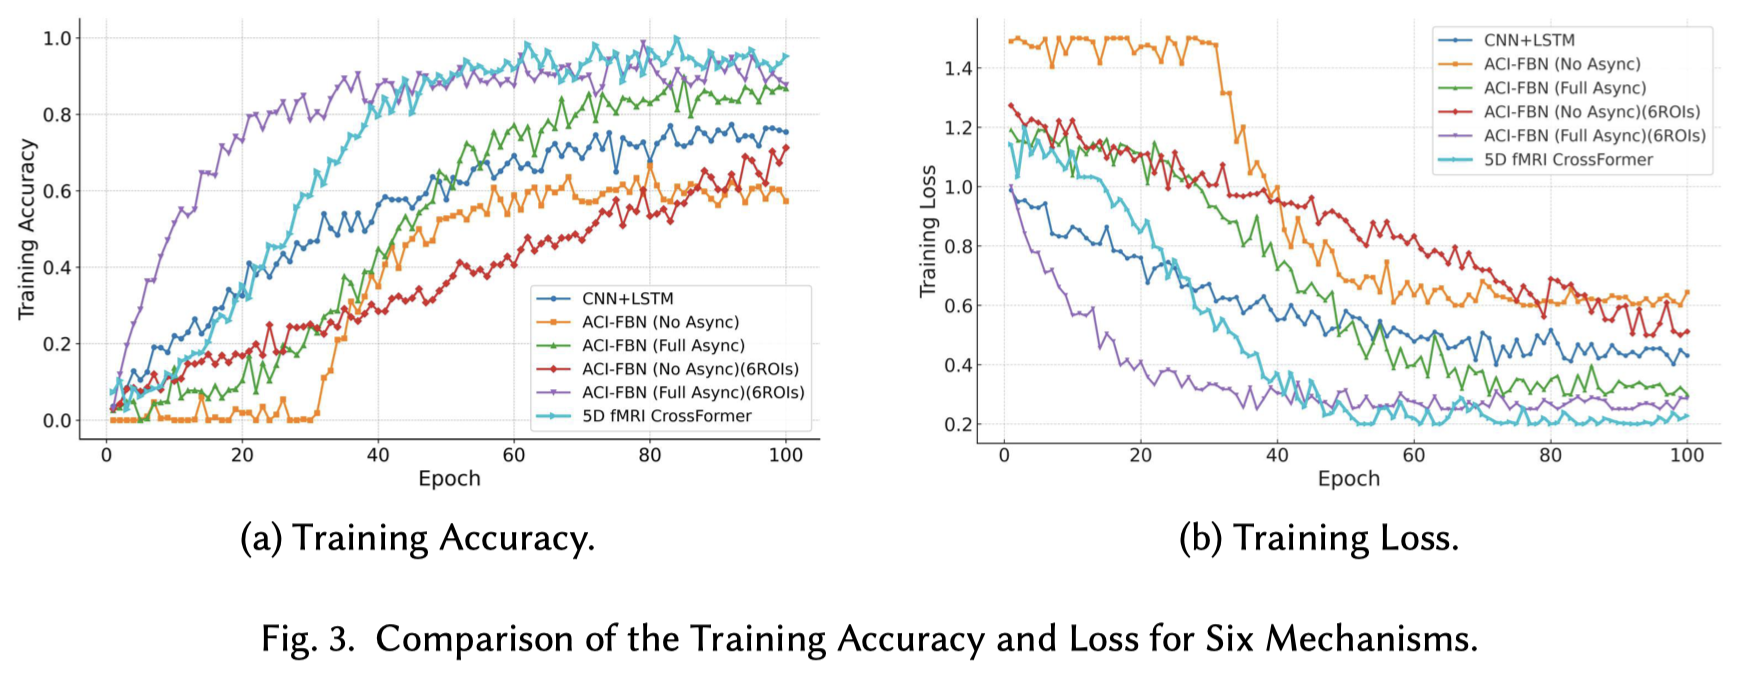
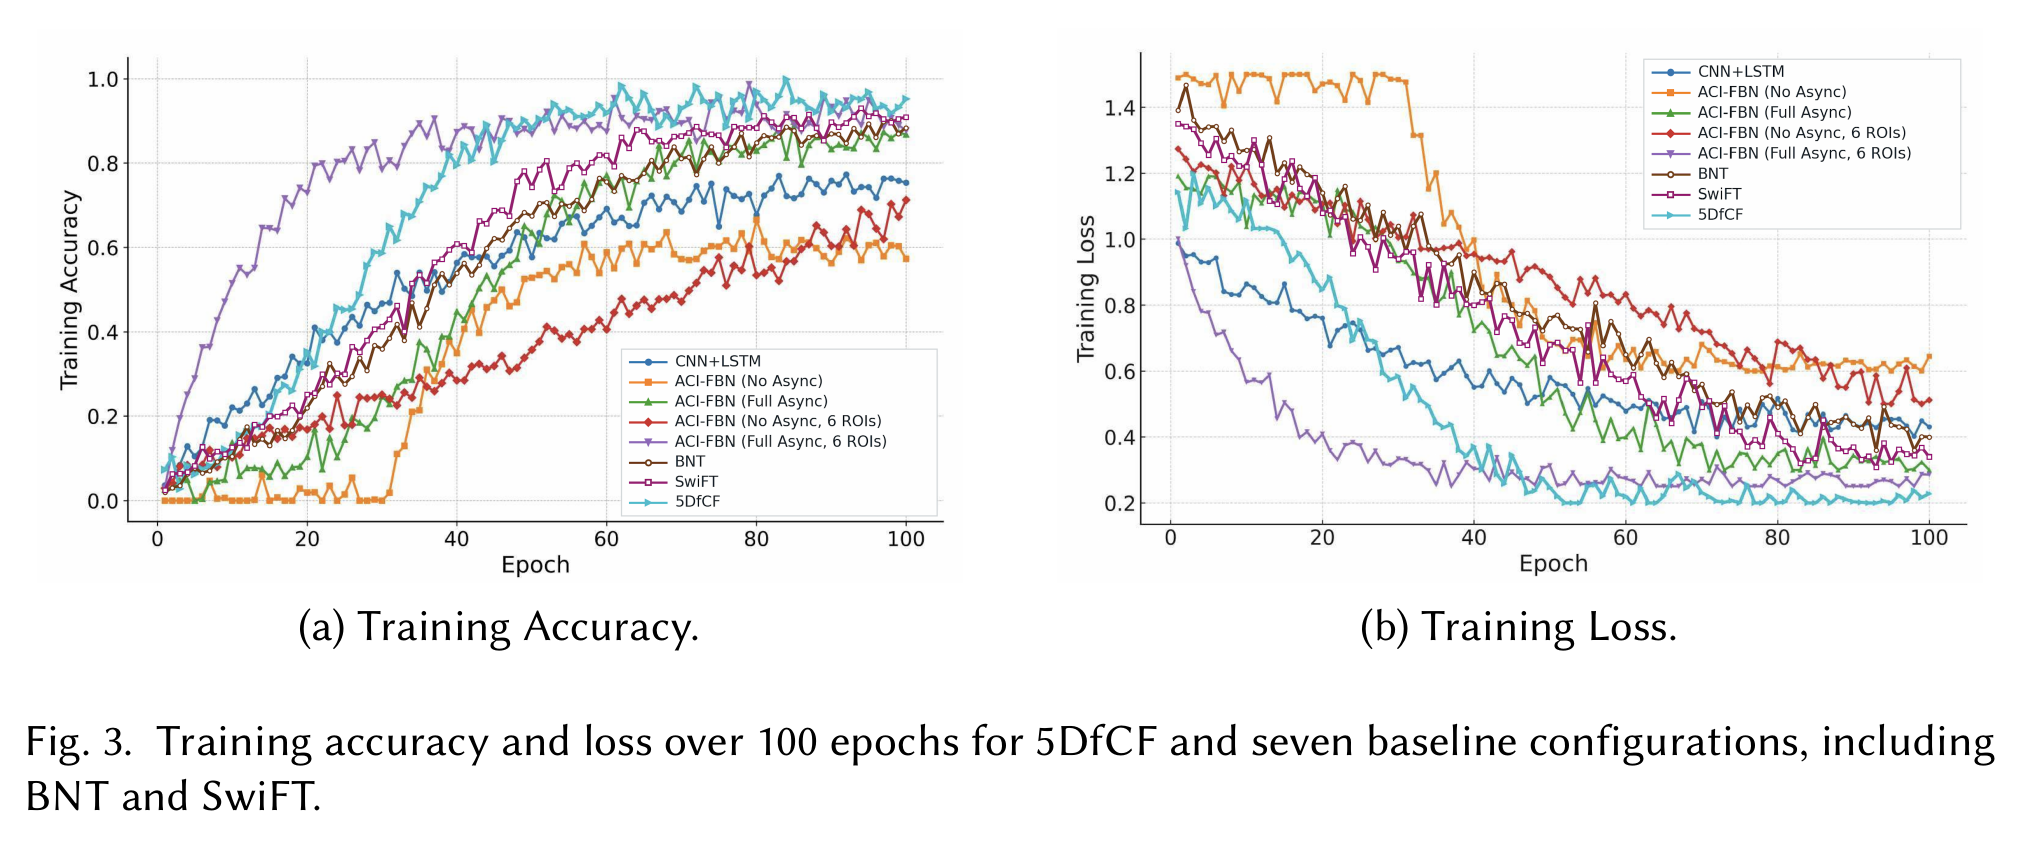
Update README benchmark results and figures

diff --git a/README.md b/README.md
@@ -8,10 +8,10 @@ Traditional neuroimaging approaches often treat fMRI volumes as independent time
 
 - Embeds multi-scale spatial patches across both intra-session and inter-session dimensions.
 - Applies dedicated 4D and 5D attention mechanisms to capture both local and global spatiotemporal dependencies.
-- Seamlessly integrates period-aware positional embeddings to preserve the order of semiannual scans.
-- Offers two variants (Base and Tiny) to balance performance and computational cost.
+- Uses period-aware positional embeddings to preserve visit order.
+- Offers Base and Tiny backbones, with a LoRA adaptation evaluated for Tiny.
 
-In experiments on longitudinal fMRI data from the Alzheimer’s Disease Neuroimaging Initiative (ADNI), the full model achieves **94.3% accuracy** and **94.1% AUC**, outperforming state-of-the-art baselines by 3–10 points in key performance metrics.
+In the longitudinal Alzheimer’s Disease Neuroimaging Initiative (ADNI) benchmark, 5DfCF Base achieved **94.4 ± 0.3% accuracy** and **94.2 ± 0.4% ROC-AUC** across three runs (mean ± standard deviation).
 
 ---
 
@@ -20,9 +20,7 @@ In experiments on longitudinal fMRI data from the Alzheimer’s Disease Neuroima
 - **5D Cross-Scale Embedding Layer (5D-CEL):** Parallel 3D convolutions with multiple kernel sizes embed each fMRI volume into a unified token representation (see Fig. 2).
 - **4D CrossFormer Block:** Dual‐path self-attention (4D-SDA for local windows and 4D-LDA for long-range dependencies) combined with absolute positional embeddings ensures rich intra-session feature extraction.
 - **Period CrossFormer Block (PCB):** 5D short-distance attention (5D-SDA) fuses period-specific outputs from the 4D blocks, enhanced by period positional embeddings to capture inter-session evolution.
-- **Variants:**
-    - **Base:** Higher token dimensions and deeper layers for maximum accuracy.
-    - **Tiny:** Reduced depth and channel sizes for 20% fewer parameters and 23% faster training, while still achieving 90.8% accuracy.
+- **Base** uses wider token embeddings and deeper layers. **Tiny** uses a narrower, shallower backbone to reduce training and inference costs.
 
 ---
 
@@ -49,45 +47,45 @@ Step-by-step pipeline of the 5D fMRI CrossFormer:
 
 ---
 
-### Fig. 3. Performance Comparison (Table 3)
-![Fig. 3: Performance Comparison](readme_files/fig_3.png)  
-**Description:**  
-Comparison of methods on the ADNI dataset:
-- **Accuracy & AUC:** Our 5D CrossFormer reaches **94.3%** accuracy and **94.1** AUC, outperforming CNN+LSTM (79.96%/78.4) and all ACI-FBN variants.
-- **Precision, Recall, F1-Score:** Achieves **93.6%** precision, **92.1%** recall, and **93.4%** F1-score—demonstrating balanced class performance.
-- **Efficiency:** Training time of **15.1 h** and **19.52 M** parameters remain competitive versus heavier baselines.
+### Fig. 3. ADNI Benchmark (Paper Table 4)
+
+![ADNI benchmark across three runs, including BNT and SwiFT](readme_files/fig_3.png)
+
+5DfCF Base had the highest mean on all five reported classification metrics, including **93.9 ± 0.5% precision**, **92.4 ± 1.0% recall**, and **93.2 ± 0.4% F1**. Its mean accuracy was **2.9 percentage points** higher than SwiFT's, and its mean ROC-AUC was **2.2 points** higher than that of six-ROI Full Asynch ACI-FBN. BNT achieved 89.4 ± 1.1% accuracy and 90.2 ± 1.2% ROC-AUC.
 
 ---
 
-### Fig. 4. Training Accuracy & Loss (Fig. 3)
-![Fig. 4: Training Accuracy & Loss](readme_files/fig_4.png)  
-**Description:**
-- **(a) Training Accuracy:** The CrossFormer (cyan) converges rapidly—surpassing other methods by epoch 40—and plateaus near **0.95**.
-- **(b) Training Loss:** Exhibits a steep early decline and stabilizes around **0.2**, indicating effective feature learning and regularization.
+### Fig. 4. Training Accuracy and Loss (Paper Fig. 3)
+
+The plots cover 100 epochs and include BNT and SwiFT.
+
+![Training accuracy and loss over 100 epochs](readme_files/fig_4.png)
+
+- **(a) Training accuracy.** The six-ROI Full Asynch ACI-FBN curve rises earlier. The 5DfCF curve reaches about 90% around epoch 50 and stays near 95% toward the end. BNT and SwiFT finish at 88.4% and 90.9%, respectively.
+- **(b) Training loss.** The 5DfCF curve ends near 0.23, compared with 0.40 for BNT and 0.34 for SwiFT. Fig. 3 reports classification results on held-out participants.
 
 ---
 
-### Fig. 5. Calibration & ROC Curves (Fig. 4)
-![Fig. 5: Calibration & ROC Curves](readme_files/fig_5.png)  
-**Description:**
-- **(a) Calibration Curves:** Predicted probabilities of the CrossFormer closely align with the perfect calibration line, indicating reliable confidence estimates.
-- **(b) ROC Curves:** With an **AUC of 0.941**, our model outperforms all baselines, achieving higher true positive rates across false positive thresholds and demonstrating superior discriminative power.
+### Fig. 5. Calibration and ROC Curves
 
+![Calibration and ROC curves from the earlier six-method comparison](readme_files/fig_5.png)
+
+This figure shows the earlier six-method comparison. The ROC legend gives 94.1% AUC for the displayed 5DfCF curve. The three-run benchmark is summarized in Fig. 3.
+
+---
+
+## Additional ADNI Results
+
+- At held-out ADNI site 137, 5DfCF and SwiFT each correctly classified **10 of 11 participants (90.9%)**. After one observed visit per participant was removed, 5DfCF still classified 10 of 11 correctly, while SwiFT classified 8 of 11.
+- In the separate efficiency comparison, **Tiny** achieved **90.8% accuracy** and **89.8% ROC-AUC**, used 15.61 million parameters, and trained in 11.7 hours. **Tiny+LoRA** achieved **90.5% accuracy** and **88.7% ROC-AUC**, used 15.60 million parameters, and trained in 10.3 hours.
 
 ---
 
 ## Datasets
 
-We leveraged the Alzheimer’s Disease Neuroimaging Initiative (ADNI) longitudinal fMRI cohort:
+The ADNI cohort comprised **245 participants**, including 190 with stable mild cognitive impairment (sMCI) and 55 with progressive mild cognitive impairment (pMCI). The sMCI group remained at MCI during follow-up. The pMCI group progressed from MCI to dementia.
 
-| Dataset | sMCI | pMCI | Total |
-|---------|:----:|:----:|:-----:|
-| **Unbalanced** | 190 |  55  |  245  |
-| **Balanced**   | 190 | 180  |  370  |
-
-- **Stable MCI (sMCI):** Subjects whose diagnoses remained “MCI” across all visits.
-- **Progressive MCI (pMCI):** Subjects whose diagnoses converted from “MCI” to “Dementia” at any follow-up.
-- **Preprocessing:** Exclude single-visit subjects; impute missing annual scans via nearest available timepoint; balance classes using SMOTE. 
+Participants were split into training (70%), validation (15%), and test (15%) sets. SMOTE was applied only to the training set after splitting, producing **133 sMCI and 133 pMCI training samples**. The validation and test sets retained their original class distributions.
 
 ---
 
